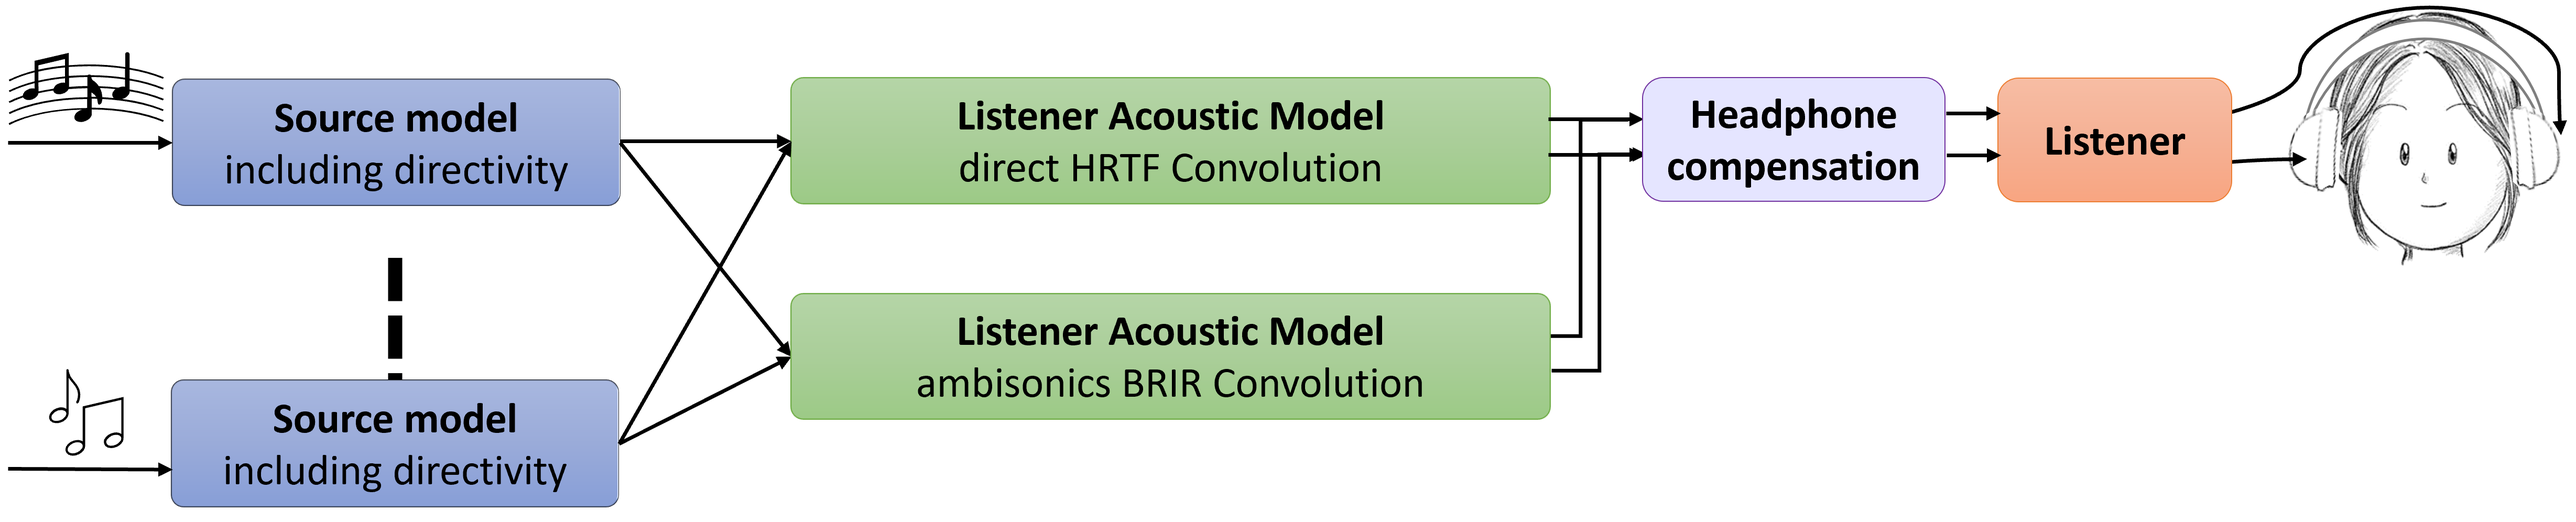
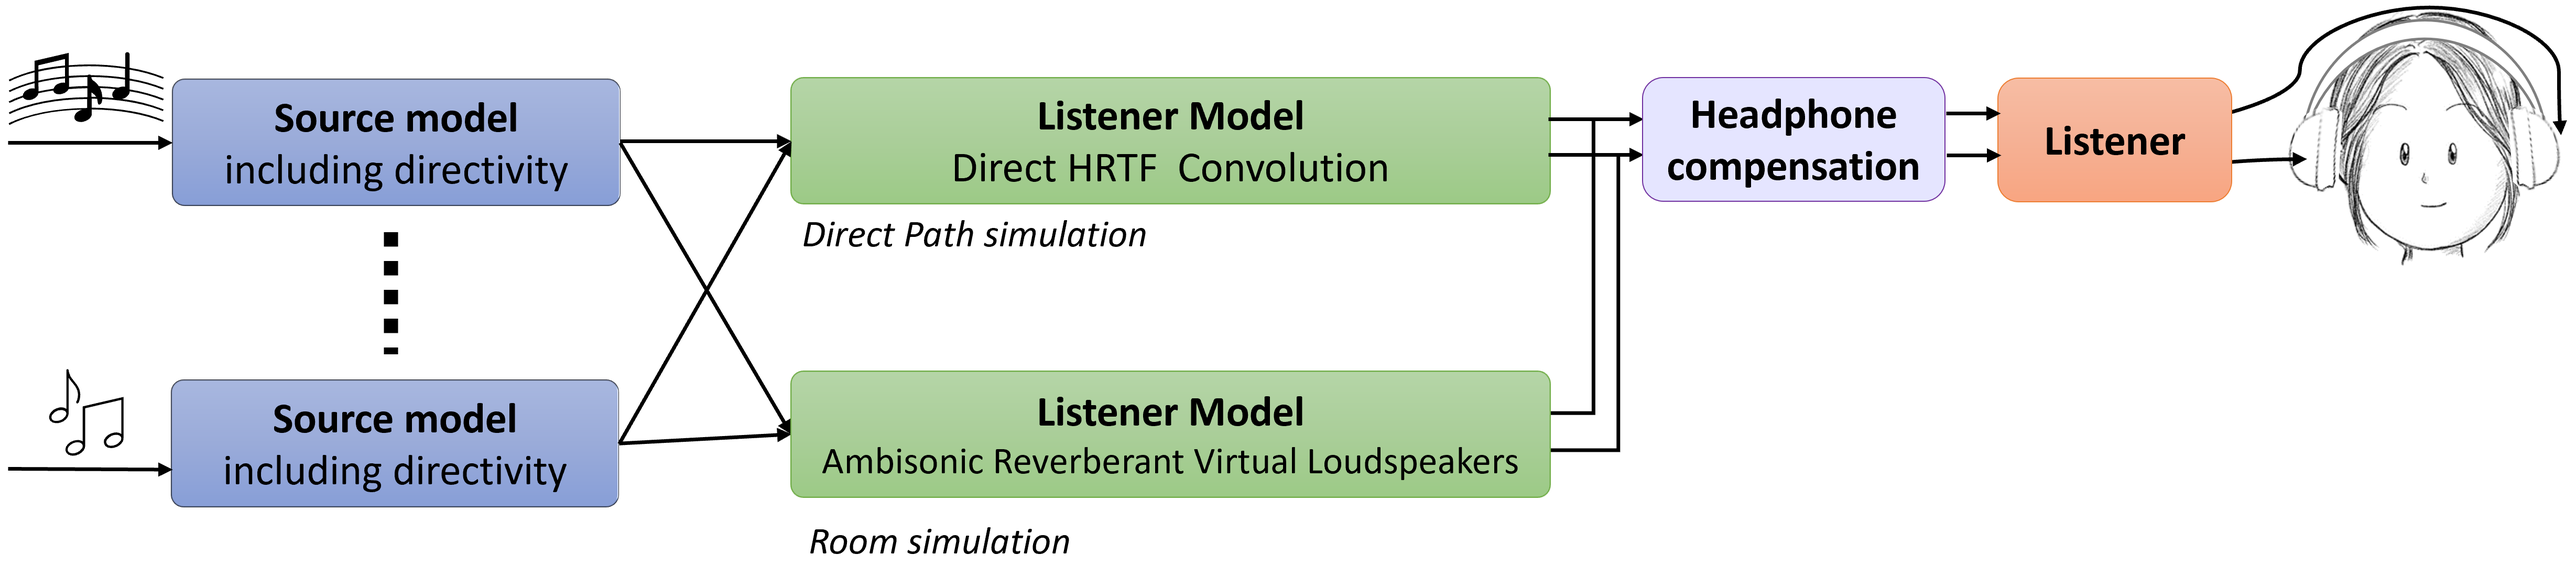
feat: Improves brt simulation example diagrams

diff --git a/docs/library/index.md b/docs/library/index.md
@@ -112,7 +112,7 @@ This modular approach provides flexibility while ensuring that all components in
 
 <div style="border: 1px solid #000; padding: 10px; display: inline-block;">
     <img src="../assets/BRTLibraryUsageDiagram.png" alt="Generic connection diagram of the BRT models." style="display: block; margin: 0 auto;">
-    <p style="text-align: center;">Generic connection diagram of the BRT models.</p>
+    <p style="text-align: center;">Generic connection diagram of the BRT models</p>
 </div>
 
 Below are examples of configurations that can be created:
@@ -120,19 +120,25 @@ Below are examples of configurations that can be created:
 **Example 1 - Basic Anechoic Simulation**: Combine a listener model with source models for anechoic rendering.
 <div style="border: 1px solid #000; padding: 10px; display: inline-block;">
     <img src="../assets/anechoic-simulation.png" alt="Configuration with an anechoic simulation" style="display: block; margin: 0 auto;">
-    <p style="text-align: center;">Configuration with an anechoic simulation.</p>
+    <p style="text-align: center;">Configuration for direct path simulation (anechoic simulation)</p>
 </div>
 
 **Example 2 - Propagation simulation**: Add an environment model to simulate propagation.
 <div style="border: 1px solid #000; padding: 10px; display: inline-block;">
     <img src="../assets/anechoic-freefield-environment.png" alt="Configuration with anechoic and free field environment simulation." style="display: block; margin: 0 auto;">
-    <p style="text-align: center;">Configuration with anechoic and free field simulation.</p>
+    <p style="text-align: center;">Configuration for direct path simulation adding propagation in a free environment (anechoic simulation + propagation)</p>
 </div>
 
-**Example 3 - Room Simulation and Custom Filters**: Incorporate a room simulation and binaural filters for simulating specific devices like headphones or earmuffs.
+**Example 3 - Hybrid simulation and custom filters**: Independent simulation for direct sound and room reverberation, using a hybrid approach. In addition, a bilateral filter is added to simulate hearing protectors or to compensate for headphones.
 <div style="border: 1px solid #000; padding: 10px; display: inline-block;">
     <img src="../assets/anechoic-reverb-binaural-simulation.png" alt="Configuration with anechoic and reverberation simulation, plus filtering." style="display: block; margin: 0 auto;">
-    <p style="text-align: center;">Configuration with anechoic and reverberation simulation, plus filtering.</p>
+    <p style="text-align: center;">Configuration with direct path (anechoic) and reverberation (room) simulation, plus filtering.</p>
+</div>
+
+**Example 4 - Simultaneous rendering of two listeners**: Simultaneous and independent rendering of two listeners. Each can have their own position in space, HRTF, etc. In addition, filtering is added to one of the listeners to simulate ear protective devices.
+<div style="border: 1px solid #000; padding: 10px; display: inline-block;">
+    <img src="../assets/two-listener-example.png" alt="Configuration with anechoic and reverberation simulation, plus filtering." style="display: block; margin: 0 auto;">
+    <p style="text-align: center;">Simultaneous rendering of two listeners</p>
 </div>
 
 
